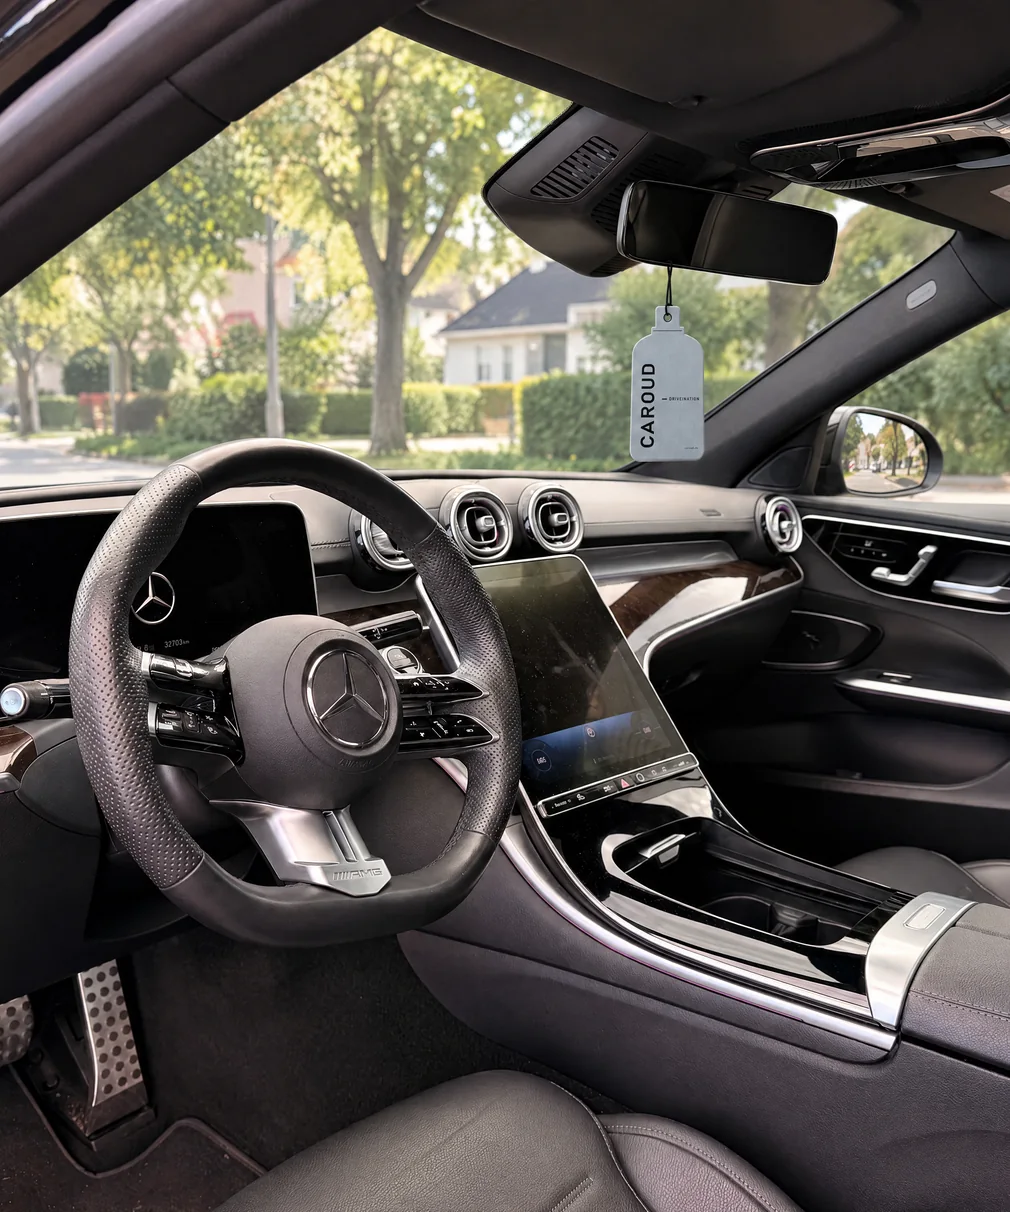
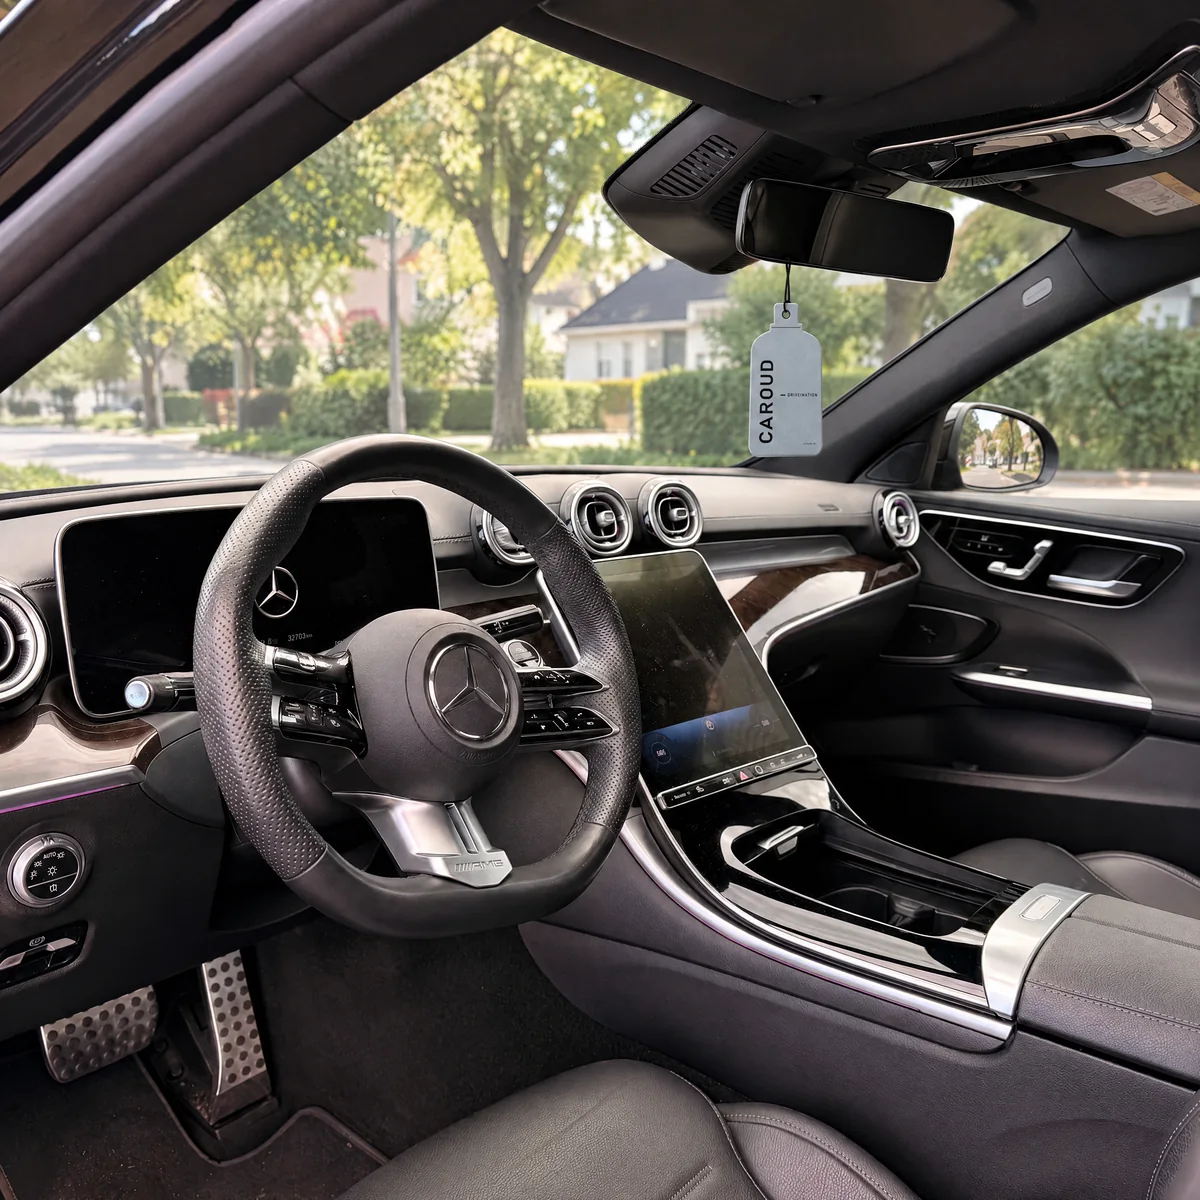
Hero: echte Flasche statt Grafik, Ueber-uns-Foto ohne Verzerrung (v68)
Claude-Session: https://claude.ai/code/session_01FWAFBrrQYUhS2XwshSf5J4

diff --git a/css/style.css b/css/style.css
@@ -605,12 +605,15 @@ button { font-family: inherit; }
   animation: hero-float 5.2s ease-in-out infinite;
 }
 
-.hero-produkt svg {
+.hero-produkt svg,
+.hero-produkt .hero-bottle {
   position: relative;
   width: min(310px, 78%);
   height: auto;
   filter: drop-shadow(0 26px 42px rgba(0, 0, 0, 0.6));
 }
+/* Echte Flasche (Freisteller aus dem Studiofoto) – schmaler als die alte Grafik */
+.hero-produkt .hero-bottle { width: auto; height: min(560px, 66vh); max-width: 78%; object-fit: contain; }
 
 /* Deutliches Schweben mit leichtem Kippen – fällt aus dem Augenwinkel auf */
 @keyframes hero-float {
@@ -653,7 +656,8 @@ button { font-family: inherit; }
 }
 
 /* Rückstoß beim Sprühen */
-.hero-produkt.spraying svg { animation: bottle-kick 0.48s ease-out; }
+.hero-produkt.spraying svg,
+.hero-produkt.spraying .hero-bottle { animation: bottle-kick 0.48s ease-out; }
 
 @keyframes bottle-kick {
   0%   { transform: translateY(0) scale(1); }
@@ -725,6 +729,7 @@ button { font-family: inherit; }
   .hero-cta { justify-content: center; }
   .hero-note { margin-top: 0.9rem; font-size: 0.68rem; }
   .hero-produkt svg { width: min(150px, 42%); }
+  .hero-produkt .hero-bottle { height: min(300px, 38vh); }
   .hero::after {
     background: linear-gradient(180deg, rgba(28, 27, 25, 0.72) 0%, rgba(28, 27, 25, 0.5) 45%, rgba(28, 27, 25, 0.82) 100%);
   }
@@ -1013,7 +1018,7 @@ button { font-family: inherit; }
 
 .about-text .btn { margin-top: 0.6rem; }
 
-.about-media img { width: 100%; display: block; }
+.about-media img { width: 100%; height: auto; display: block; }
 
 @media (max-width: 800px) {
   .about-grid { grid-template-columns: 1fr; gap: 2rem; }

diff --git a/index.html b/index.html
@@ -29,7 +29,7 @@
   <link rel="icon" type="image/png" href="img/favicon.png">
   <!-- Überschriftenschrift vorladen, damit der Hero-Titel nicht erst in Georgia aufblitzt -->
   <link rel="preload" href="fonts/playfair-400.woff2" as="font" type="font/woff2" crossorigin>
-  <link rel="stylesheet" href="css/style.css?v=57">
+  <link rel="stylesheet" href="css/style.css?v=58">
 
   <!-- Strukturierte Daten für Google. Produkt-Markup fehlt bewusst,
        solange keine echten Preise hinterlegt sind. -->
@@ -417,7 +417,7 @@
         <a href="#produkte" class="btn btn-gold">Jetzt ansehen</a>
       </div>
       <div class="about-media">
-        <img src="img/about.webp?v=2" alt="Fahrzeug-Innenraum" width="505" height="586" loading="lazy">
+        <img src="img/about.webp?v=3" alt="Caroud Duftanhänger am Rückspiegel" width="1200" height="1200" loading="lazy">
       </div>
     </div>
   </section>
@@ -540,6 +540,6 @@
   <div class="toast" id="toast" hidden></div>
 
   <script src="js/products.js?v=65"></script>
-  <script src="js/main.js?v=60"></script>
+  <script src="js/main.js?v=61"></script>
 </body>
 </html>

diff --git a/js/main.js b/js/main.js
@@ -230,7 +230,7 @@ function rgba(hex, a) {
 const heroArt = document.getElementById("heroArt");
 if (heroArt) {
   heroArt.innerHTML =
-    `<div class="bottle-wrap">${artFor(byId("spray-pacific-cruise"))}</div>` +
+    `<div class="bottle-wrap"><img class="hero-bottle" src="img/hero-flasche.webp?v=1" alt="Caroud Duftspray Pacific Cruise" width="440" height="1656" fetchpriority="high"></div>` +
     `<div class="mist-layer"></div>` +
     `<button class="spray-hit" type="button" aria-label="Sprühstoß auslösen" title="Draufdrücken"></button>`;
 
